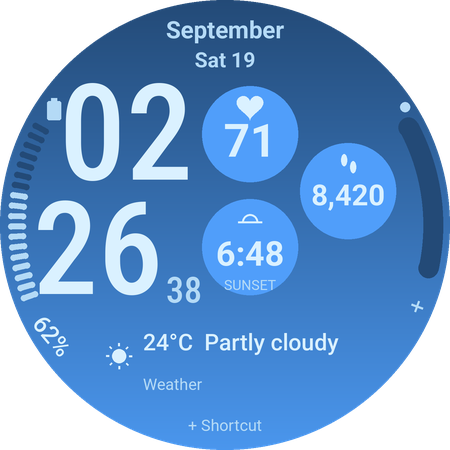
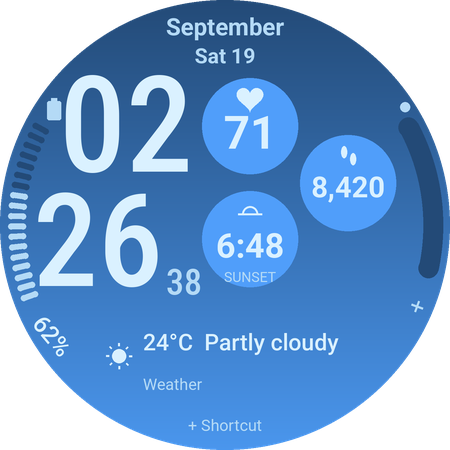
Tighten upper layout and retain compatible app shortcuts

Changed region(s): [[0.0622, 0.0311, 0.9022, 0.6844], [0.4356, 0.3111, 0.4667, 0.3422]]

diff --git a/tools/generate_watchface.py b/tools/generate_watchface.py
@@ -77,17 +77,17 @@ def clock(parent, ambient=False):
     color = '#FF8FA9BC' if ambient else C[2]
     # Retain the installed face's stacked time and two-line date. Slightly
     # smaller, inset digits clear the battery gauge and larger forecast below.
-    d = box(g, 'DigitalClock', 28, 67, 176, 246)
+    d = box(g, 'DigitalClock', 28, 59, 176, 246)
     for fmt, x, y, width in [('hh', 22, 0, 152), ('mm', 4, 116, 132)]:
         t = box(d, 'TimeText', x, y, width, 130, format=fmt, hourFormat='SYNC_TO_DEVICE', align='CENTER')
         el(t, 'Font', family='sans-serif-condensed', size=116 if ambient else (130 if fmt == 'mm' else 134),
            color=color, weight='THIN' if ambient else 'MEDIUM')
-    text(g, 82, 17, 286, 30, 24, '%s', '[MONTH_F]',
+    text(g, 82, 15, 286, 28, 24, '%s', '[MONTH_F]',
          color=color if ambient else C[3], weight='LIGHT' if ambient else 'BOLD')
-    text(g, 82, 47, 286, 26, 21, '%s %s', '[DAY_OF_WEEK_S]', '[DAY]',
+    text(g, 82, 43, 286, 26, 21, '%s %s', '[DAY_OF_WEEK_S]', '[DAY]',
          color=color if ambient else C[3], weight='LIGHT' if ambient else 'BOLD')
     if not ambient:
-        seconds = box(g, 'DigitalClock', 166, 270, 36, 40)
+        seconds = box(g, 'DigitalClock', 166, 262, 36, 40)
         t = box(seconds, 'TimeText', 0, 0, 36, 40, format='ss', align='CENTER')
         el(t, 'Font', family='sans-serif-condensed', size=36, color=C[3], weight='MEDIUM')
 
@@ -232,12 +232,12 @@ def edge_slot(parent, sid, name, left=False):
 
 def shortcut(parent):
     s = box(parent, 'ComplicationSlot', 155, 410, 140, 30, slotId=6, name='shortcut',
-            displayName='slot_shortcut', supportedTypes='MONOCHROMATIC_IMAGE EMPTY', isCustomizable='TRUE')
+            displayName='slot_shortcut', supportedTypes='SMALL_IMAGE EMPTY', isCustomizable='TRUE')
     box(s, 'BoundingRoundBox', 0, 0, 140, 30, cornerRadius=15)
     el(s, 'DefaultProviderPolicy', defaultSystemProvider='EMPTY', defaultSystemProviderType='EMPTY')
     ambient_hide(s)
-    p = el(s, 'Complication', type='MONOCHROMATIC_IMAGE')
-    image(p, 55, 0, 30, 30, '[COMPLICATION.MONOCHROMATIC_IMAGE]', C[2])
+    p = el(s, 'Complication', type='SMALL_IMAGE')
+    image(p, 55, 0, 30, 30, '[COMPLICATION.SMALL_IMAGE]')
     p = el(s, 'Complication', type='EMPTY')
     text(p, 0, 4, 140, 22, 16, '+ Shortcut', color=C[3])
 
@@ -251,9 +251,9 @@ def build():
     el(fill, 'LinearGradient', startX=0, startY=0, endX=0, endY=450, colors=C[0]+' '+C[1], positions='0 1')
     clock(scene); clock(scene, ambient=True)
     # Keep complication rendering last to reduce ambient memory use.
-    circle_slot(scene,1,'upper_circle',202,86,96,'HEART_RATE')
-    circle_slot(scene,2,'middle_circle',300,143,96,'STEP_COUNT')
-    circle_slot(scene,3,'lower_circle',202,199,96,'SUNRISE_SUNSET')
+    circle_slot(scene,1,'upper_circle',202,78,96,'HEART_RATE')
+    circle_slot(scene,2,'middle_circle',300,135,96,'STEP_COUNT')
+    circle_slot(scene,3,'lower_circle',202,191,96,'SUNRISE_SUNSET')
     edge_slot(scene,4,'left_edge',True); edge_slot(scene,5,'right_edge')
     shortcut(scene)
     rectangle_slot(scene)

diff --git a/tools/capture_editor.py b/tools/capture_editor.py
@@ -109,10 +109,10 @@ try:
     adb('shell', 'input', 'keyevent', 'KEYCODE_WAKEUP')
     adb('shell', 'settings', 'put', 'system', 'screen_off_timeout', '1800000')
     # Observe the installed providers' own tap actions without changing settings.
-    for sid, name, x, y in [(1, 'heart-rate', 250, 134), (2, 'steps', 348, 191),
-                            (3, 'sunrise-sunset', 250, 247), (4, 'battery', 16, 225),
-                            (1, 'upper-boundary', 287, 156), (2, 'middle-upper-boundary', 314, 164),
-                            (2, 'middle-lower-boundary', 314, 218), (3, 'lower-boundary', 287, 270)]:
+    for sid, name, x, y in [(1, 'heart-rate', 250, 126), (2, 'steps', 348, 183),
+                            (3, 'sunrise-sunset', 250, 239), (4, 'battery', 16, 225),
+                            (1, 'upper-boundary', 287, 148), (2, 'middle-upper-boundary', 314, 156),
+                            (2, 'middle-lower-boundary', 314, 210), (3, 'lower-boundary', 287, 262)]:
         ensure_face()
         before=launch_log()
         tap(x*w/450, y*h/450)
@@ -137,8 +137,8 @@ try:
         slot_tree=capture('editor-slots')
         results['editor_opened'] = True
         # Coordinates come from the seven WFF touch regions, scaled to the display.
-        for name, x, y in [('upper', 250, 134), ('middle', 348, 191),
-                           ('lower', 250, 247), ('left', 16, 225),
+        for name, x, y in [('upper', 250, 126), ('middle', 348, 183),
+                           ('lower', 250, 239), ('left', 16, 225),
                            ('right', 420, 225), ('bottom', 225, 425), ('weather', 225, 357)]:
             slot_tree=return_to_editor()
             label='Bottom rectangle' if name=='weather' else 'Bottom shortcut' if name=='bottom' else f'{name.title()} '+('edge' if name in ['left','right'] else 'circle')

diff --git a/tools/test_forecast_editor.py b/tools/test_forecast_editor.py
@@ -224,6 +224,12 @@ def main():
         if b"SamsungForecastService" not in providers:
             raise RuntimeError("Forecast source not discoverable through standard complication action")
         open_editor("replace")
+        tap(225 * WIDTH / 450, 425 * HEIGHT / 450)
+        capture("shortcut-chooser")
+        if "ProviderChooserActivity" not in top_activity():
+            raise RuntimeError("Shortcut did not open the native chooser")
+        adb("shell", "input", "keyevent", "KEYCODE_BACK")
+        wait_editor()
         open_rectangle("replace-chooser")
         # A separate app proves SMALL_IMAGE remains replaceable through the native picker.
         select_provider("Test chart", "chart", "Panel test")

diff --git a/tools/prepare_push_bundle.py b/tools/prepare_push_bundle.py
@@ -155,8 +155,8 @@ def main():
     parser = argparse.ArgumentParser(description=__doc__)
     parser.add_argument("--variant", choices=("debug", "release"), default="debug")
     parser.add_argument("--validator", help="Existing official validator-push-cli JAR")
-    parser.add_argument("--version-code", type=int, default=12)
-    parser.add_argument("--version-name", default="0.2.0-preview.5")
+    parser.add_argument("--version-code", type=int, default=13)
+    parser.add_argument("--version-name", default="0.2.0-preview.6")
     args = parser.parse_args()
     if args.version_code < 1:
         parser.error("--version-code must be positive")

diff --git a/tests/test_watchface.py b/tests/test_watchface.py
@@ -101,7 +101,7 @@ class WatchFaceTests(unittest.TestCase):
 
     def test_shortcut_offers_only_icons(self):
         slot=self.face.find(".//ComplicationSlot[@slotId='6']")
-        self.assertEqual(set(slot.get('supportedTypes').split()), {'MONOCHROMATIC_IMAGE','EMPTY'})
+        self.assertEqual(set(slot.get('supportedTypes').split()), {'SMALL_IMAGE','EMPTY'})
 
     def test_weather_is_one_native_editable_slot(self):
         slot=self.face.find(".//ComplicationSlot[@slotId='7']")

diff --git a/docs/SAMSUNG_FORECAST_TESTING.md b/docs/SAMSUNG_FORECAST_TESTING.md
@@ -6,7 +6,7 @@ This preview reads Samsung Weather's saved forecast through its existing user-gr
 
 Download `weatherbridge-debug.apk` from the **samsung-forecast-preview** artifact in the **Samsung forecast preview** GitHub workflow. The APK contains the weather setup app, a normal selectable forecast complication, and a separately signed/validated WFF face. Do not install the `androidTest` APK or the AAB on your watch.
 
-The current source is **0.2.0-preview.5 / version 12**. It keeps the familiar layout, gives the three 96-unit circles equal spacing, centers the two date lines together with a tighter line gap, and makes the active date bold. The 262 × 94 forecast panel is unchanged. Its standard picker now accepts only small-image panels or Empty, excluding generic long-text choices. The left edge has 18 ticks and the right arc spans 40 degrees. The bottom shortcut accepts monochrome icons or Empty; its former text/image-only assignments may need replacing. Circle and edge formats stay unchanged. Validation of this revision is recorded in [the validation log](VALIDATION.md); older runs are not evidence for this update.
+The current source is **0.2.0-preview.6 / version 13**. It keeps the familiar layout, gives the three 96-unit circles equal spacing, centers the two date lines together with a tighter line gap, and makes the active date bold. The time and circles sit eight units higher, retaining equal gaps. The 262 × 94 forecast panel is unchanged. Its standard picker now accepts only small-image panels or Empty, excluding generic long-text choices. The left edge has 18 ticks and the right arc spans 40 degrees. The bottom shortcut accepts small-image icons or Empty; its former text/monochrome-only assignments may need replacing. Circle and edge formats stay unchanged. Validation of this revision is recorded in [the validation log](VALIDATION.md); older runs are not evidence for this update.
 
 For historical comparison, the reviewed version 10 build is [run 35677889561](https://github.com/DylanMc25/ultrawatchfaceedits/actions/runs/35677889561), source `e9fe68d`. Its build/validation and both stock Wear OS 6 editor tests pass. Those results do not validate the new layout or narrowed provider menu.
 
@@ -24,17 +24,17 @@ On the watch:
 1. In **Ultra Info Board Weather**, tap **Allow weather access** and respond to Samsung's system permission prompt.
 2. Tap **Read saved forecast**. The app shows the selected city, current reading, four hourly entries and saved time. Everything stays on the watch; no coordinates or raw provider records are logged or uploaded.
 3. Tap **Open Samsung Weather**. Compare the same location, units, current temperature, forecast hours and temperatures. Refresh Samsung Weather, then return and read again.
-4. Select **Ultra Forecast** in the watch-face picker. This distinct name separates it from the older **Ultra Info Board** face. If it is missing, return to the app and tap **Install or update watch face**. The bottom rectangle defaults to **Weather** from **Ultra Info Board Weather** in version 12; older previews call this source **Samsung hourly forecast**.
+4. Select **Ultra Forecast** in the watch-face picker. This distinct name separates it from the older **Ultra Info Board** face. If it is missing, return to the app and tap **Install or update watch face**. The bottom rectangle defaults to **Weather** from **Ultra Info Board Weather** in version 13; older previews call this source **Samsung hourly forecast**.
 5. Tap the left, middle and right of the rectangle: each should open Samsung Weather after access is granted. When access is missing, the forecast provider opens its permission setup instead.
 6. In Customize → Complications → Bottom rectangle, replace the rectangle with another installed small-image provider, such as a compatible chart source. Its content and tap should take over. Restore **Weather** under **Ultra Info Board Weather**. Samsung's own **Weather** entry is a different provider and supplies current conditions, not this hourly image. Wear OS determines which installed apps are eligible; the face does not whitelist providers.
 
-The seven slot IDs and package identities are unchanged. Because version 12 also removes long-text types from the rectangle, an existing assignment that supports only a removed type may need replacing. Upgrade migration and retention of these assignments have not been tested; do not assume a consistently signed update preserves an incompatible source.
+The seven slot IDs and package identities are unchanged. Because version 13 also removes long-text types from the rectangle, an existing assignment that supports only a removed type may need replacing. Upgrade migration and retention of these assignments have not been tested; do not assume a consistently signed update preserves an incompatible source.
 
 ### Keeping weather permission across updates
 
 The user reported that granting **Allow weather access** restored the forecast. Reinstalling the host resets its permission; use `install -r` for normal updates. Do not clear the app's data or uninstall as a routine update step. Android/Samsung controls permission grants and can revoke them; the app cannot silently bypass the prompt.
 
-The actual version 10 and 11 CI APKs had different host certificates, explaining the reported signature conflict. The old cache retained the face key but did not preserve the host signing identity used by those builds. Version 12 explicitly selects the cached host keystore, migrates to a new cache, verifies both APK certificates, and records their public fingerprints. Once pinned, CI refuses a changed or missing key rather than silently shipping another incompatible update. Cache storage is not a durable production key backup; release signing still needs secure persistent storage.
+The actual version 10 and 11 CI APKs had different host certificates, explaining the reported signature conflict. The old cache retained the face key but did not preserve the host signing identity used by those builds. Version 13 explicitly selects the cached host keystore, migrates to a new cache, verifies both APK certificates, and records their public fingerprints. Once pinned, CI refuses a changed or missing key rather than silently shipping another incompatible update. Cache storage is not a durable production key backup; release signing still needs secure persistent storage.
 
 The earlier ephemeral host key cannot be recovered from its APK. Moving from version 11 to the stable preview key will require a one-time reinstall and permission grant; keep the working version if you do not want to reset it now. Never uninstall Samsung Weather. Subsequent same-key preview updates should retain access; physical update retention still needs verification. Local builds use a separate local key and should not be mixed with CI downloads.
 
@@ -55,7 +55,7 @@ Do not describe fixture images or stock-emulator results as Samsung integration.
 
 ## Customization investigation
 
-Version 12 declares slot 7 customizable with exactly `SMALL_IMAGE EMPTY`. This narrows the menu by data type, not by app identity, and therefore does not reproduce a fixed Samsung-only list. The forecast service declares the standard complication action, binding permission and `SMALL_IMAGE` type. It is not hidden or restricted to our own face. The [public registration and selection rules](https://developer.android.com/training/wearables/complications/exposing-data) permit this combination; a source being assigned by default does not establish discoverability in every OEM editor.
+Version 13 declares slot 7 customizable with exactly `SMALL_IMAGE EMPTY`. This narrows the menu by data type, not by app identity, and therefore does not reproduce a fixed Samsung-only list. The forecast service declares the standard complication action, binding permission and `SMALL_IMAGE` type. It is not hidden or restricted to our own face. The [public registration and selection rules](https://developer.android.com/training/wearables/complications/exposing-data) permit this combination; a source being assigned by default does not establish discoverability in every OEM editor.
 
 A targeted recheck of the supplied Samsung manifests found no additional public rectangle-selection flag to copy: ComplicationHelper does not declare ordinary complication-source services, while Ultra Info Board declares its own wallpaper/editor and only queries the ordinary complication action. Its source-configuration activities concern World Clock/Altimeter, not the hourly weather panel. These findings explain why Samsung's private editor configuration is not a registration recipe for our normal provider; they do not diagnose the user's exact picker failure.
 
@@ -63,7 +63,7 @@ Version 10 adds a service-specific white icon, distinct face name and exact pick
 
 The first naming attempt in version 9, **Ultra Info Board Forecast**, was visibly truncated to **Ultra Info Boa…** in the round picker, hiding its distinguishing suffix. Version 10 shortens the label to **Ultra Forecast**. This changes the display name, not the package or existing assignments.
 
-`tools/test_forecast_editor.py` exercises the actual native editor on disposable API 36 emulators. It verifies the active pushed package, replaces the rectangle with an eligible source, checks persistence and taps, verifies opening setup does not overwrite the assignment, then restores the forecast through the picker. Version 12 uses an isolated test-only image chart app to verify replacement and taps, and restores **Weather**; version 11 used Battery; the historical version 9/10 runs below used Alarm and **Samsung hourly forecast**. With Samsung absent, the restored provider should open setup. Screenshots, UI trees, provider registration and activity evidence are retained, including on failure. This does not establish behavior in Samsung's watch or phone editors.
+`tools/test_forecast_editor.py` exercises the actual native editor on disposable API 36 emulators. It verifies the active pushed package, replaces the rectangle with an eligible source, checks persistence and taps, verifies opening setup does not overwrite the assignment, then restores the forecast through the picker. Version 13 uses an isolated test-only image chart app to verify replacement and taps, and restores **Weather**; version 11 used Battery; the historical version 9/10 runs below used Alarm and **Samsung hourly forecast**. With Samsung absent, the restored provider should open setup. Screenshots, UI trees, provider registration and activity evidence are retained, including on failure. This does not establish behavior in Samsung's watch or phone editors.
 
 [Run 35677046105](https://github.com/DylanMc25/ultrawatchfaceedits/actions/runs/35677046105), source `b864c30` / version 9, passes that entire sequence on both 384 px and 454 px emulators. Reviewed captures show **Samsung hourly forecast** under **Ultra Info Board Weather** in the ordinary provider list, Alarm occupying the rectangle after replacement, and the forecast restored. All three taps open the chosen provider's destination. Samsung's physical picker issue remains unresolved despite this stock-platform success.
 

diff --git a/README.md b/README.md
@@ -4,7 +4,7 @@ A Galaxy Watch face with a blue gradient, large stacked time and seven editable 
 
 **Start with the [Samsung forecast installation and comparison guide](docs/SAMSUNG_FORECAST_TESTING.md).** Download `weatherbridge-debug.apk` from the `samsung-forecast-preview` artifact in [this workflow](https://github.com/DylanMc25/ultrawatchfaceedits/actions/workflows/samsung-weather.yml), checking the source version before installation. The user confirmed the forecast appears in the face and tapping opens Samsung Weather; the narrowed picker still needs a physical Samsung check. The bundled face is **Ultra Forecast**. This is a development preview, not a store release.
 
-The current layout is standalone `:app` version **0.1.8 / 9** and Samsung forecast preview **0.2.0-preview.5 / 12**. The original standalone face remains available on Wear OS 5+ as `com.example.ultrainfoboard`; the bundled preview requires Wear OS 6. Version 12 keeps the familiar staggered layout, evens the circle gaps, makes the date bold, and limits the forecast picker to image panels. Prior version 11 passed native checks on small/large API 36 and standalone API 34/35; this revision is awaiting CI evidence; physical readability and upgrade retention still need review. Final branding, package identity and release signing remain release prerequisites.
+The current layout is standalone `:app` version **0.1.9 / 10** and Samsung forecast preview **0.2.0-preview.6 / 13**. The original standalone face remains available on Wear OS 5+ as `com.example.ultrainfoboard`; the bundled preview requires Wear OS 6. Version 13 keeps the familiar staggered layout, evens the circle gaps, makes the date bold, and limits the forecast picker to image panels. Prior version 11 passed native checks on small/large API 36 and standalone API 34/35; this revision is awaiting CI evidence; physical readability and upgrade retention still need review. Final branding, package identity and release signing remain release prerequisites.
 
 ![Illustrative provider layout](docs/previews/active-illustrative.png)
 
@@ -12,9 +12,9 @@ The current layout is standalone `:app` version **0.1.8 / 9** and Samsung foreca
 
 ## Layout
 
-- Month and day/date form a centered two-line header above stacked hours/minutes, with a tighter gap between the date lines. Active month/date text is bold, 24/21 units and hours/minutes are 134/130 units; seconds retain a separate column.
+- Month and day/date form a centered two-line header above stacked hours/minutes, with a tighter gap between the date lines. The time and circles sit eight units higher to fill the upper section. Active month/date text is bold, 24/21 units and hours/minutes are 134/130 units; seconds retain a separate column.
 - Three staggered circles on the right: heart rate, steps and sunrise/sunset. Diameters are 96/96/96 units, with main readings up to 46 units and smaller sizes for longer values.
-- Longer edges: an 18-segment battery gauge on the left and a 40-degree arc on the right, with inset icons and angled labels. The bottom shortcut accepts only `MONOCHROMATIC_IMAGE` or Empty to reduce picker choices. Right edge and shortcut start unassigned.
+- Longer edges: an 18-segment battery gauge on the left and a 40-degree arc on the right, with inset icons and angled labels. The bottom shortcut accepts only `SMALL_IMAGE` or Empty to reduce picker choices. Right edge and shortcut start unassigned.
 - One transparent **Bottom rectangle**, 262 × 94 units, for compatible installed apps' image panels (`SMALL_IMAGE`) or Empty in the Wear OS 6 forecast face. The legacy standalone face also accepts `LONG_TEXT`. Wear OS determines which installed sources support those types; there is no app whitelist.
 - Black always-on display with thin time and date; all complications are hidden.
 
@@ -28,7 +28,7 @@ All seven slot IDs stay stable in this update. The narrower rectangle type list 
 
 The historical 0.1.5 test reported `Weather —` while its tap correctly opened Samsung Weather with location and forecast data. The standalone face switched to provider data in 0.1.6; its integration remains separate from the physically confirmed Wear OS 6 preview. See [research and compatibility](docs/SAMSUNG_WEATHER.md).
 
-**Samsung forecast preview:** the Wear OS 6 app bundles the face and an hourly forecast complication that reads Samsung Weather's cache with the user's permission. It follows Samsung's saved location, units and hourly selection, and opens Samsung Weather when tapped. [Install and test the preview](docs/SAMSUNG_FORECAST_TESTING.md). Physical forecast display/tap succeeded on an earlier build; the version 12 Samsung picker, detailed data comparison and physical readability remain unverified. The original `:app` build remains available alongside `:weatherbridge` / `:pushface`.
+**Samsung forecast preview:** the Wear OS 6 app bundles the face and an hourly forecast complication that reads Samsung Weather's cache with the user's permission. It follows Samsung's saved location, units and hourly selection, and opens Samsung Weather when tapped. [Install and test the preview](docs/SAMSUNG_FORECAST_TESTING.md). Physical forecast display/tap succeeded on an earlier build; the version 13 Samsung picker, detailed data comparison and physical readability remain unverified. The original `:app` build remains available alongside `:weatherbridge` / `:pushface`.
 
 ## Build and install
 

diff --git a/docs/PULL_REQUEST.md b/docs/PULL_REQUEST.md
@@ -2,7 +2,7 @@
 
 Samsung's ordinary Weather complication does not supply its native hourly panel. This change adds a standard image complication that reads Samsung Weather's saved current/hourly data after a normal user permission grant. It follows the observed favorite-location key, units, rounding, condition mapping and four-hour selection. The whole rectangle opens Samsung Weather. The rectangle supports selecting another provider to take over its content and action; stock Wear OS selection is verified, while Samsung editor behavior still needs a physical check of this revision.
 
-A Wear OS 6 host bundles a separately signed resource-only face using Watch Face Push. Version 12 keeps the two-line date and staggered circles, makes the active date bold, and makes all three circles 96 units with equal gaps. The forecast remains 262 × 94. Its provider is named **Weather** under **Ultra Info Board Weather**. The rectangle accepts image panels (`SMALL_IMAGE`) or Empty; the shortcut accepts only monochrome icons or Empty, and all seven IDs stay stable. Both edge gauges extend farther around the rim; the minutes are slightly smaller and inset to clear the left ticks. Wear OS determines eligible apps. Older long-text rectangle assignments need replacing.
+A Wear OS 6 host bundles a separately signed resource-only face using Watch Face Push. Version 13 keeps the two-line date and staggered circles, makes the active date bold, and makes all three circles 96 units with equal gaps. The forecast remains 262 × 94. Its provider is named **Weather** under **Ultra Info Board Weather**. The rectangle accepts image panels (`SMALL_IMAGE`) or Empty; the shortcut accepts only small-image icons or Empty, and all seven IDs stay stable. Both edge gauges extend farther around the rim; the minutes are slightly smaller and inset to clear the left ticks. Wear OS determines eligible apps. Older long-text rectangle assignments need replacing.
 
 The v10/v11 downloaded host APKs had different signing certificates, explaining failed updates and permission loss after reinstalling. The preview now explicitly signs with its cached host key, verifies host/face APK certificates, and pins public identities so a lost/changed key blocks CI. Existing v11 installations require one migration reinstall; subsequent same-key updates should preserve permission. Persistent production signing and a secure key backup remain release requirements.
 
@@ -10,12 +10,12 @@ Missing data stays unavailable, expired data is marked, and bounded timelines ha
 
 ## Validation
 
-- Version 12 local APK, test APK, unsigned host AAB and lint checks pass; 29 JVM and 19 Python tests pass.
-- Official Push validation passes all ten checks on the signed embedded face. Standalone v9 APK/AAB, WFF schema and memory checks pass.
+- Version 13 local APK, test APK, unsigned host AAB and lint checks pass; 29 JVM and 19 Python tests pass.
+- Official Push validation passes all ten checks on the signed embedded face. Standalone v10 APK/AAB, WFF schema and memory checks pass.
 - Native emulator checks for this revision are pending. The new picker test uses a separate test-only image chart app, checks selection, persistence and all three tap positions, opens setup without overwriting the choice, and restores Weather. The fixture is not included in user artifacts.
 - [Versioned evidence](VALIDATION.md) distinguishes stock-emulator unavailable weather and synthetic images from physical Samsung reports.
 
 
-The user installed an earlier preview on the API 36 Galaxy Watch and confirmed the forecast appears correctly in the rectangle and its tap opens Samsung Weather. The version 12 Samsung picker and layout, format/refresh edge cases, upgrade persistence and battery/ambient checks remain pending on physical hardware. Stock-emulator fixtures do not establish Samsung integration. The observed OEM interface is not a published stable Samsung API; commercial support and production signing remain release questions. The CI AAB contains a debug-signed embedded face and is a test artifact only.
+The user installed an earlier preview on the API 36 Galaxy Watch and confirmed the forecast appears correctly in the rectangle and its tap opens Samsung Weather. The version 13 Samsung picker and layout, format/refresh edge cases, upgrade persistence and battery/ambient checks remain pending on physical hardware. Stock-emulator fixtures do not establish Samsung integration. The observed OEM interface is not a published stable Samsung API; commercial support and production signing remain release questions. The CI AAB contains a debug-signed embedded face and is a test artifact only.
 
 The GitHub connector currently returns `403 Resource not accessible by integration` when creating a draft PR. This file preserves the review description; no PR has been created by the agent.

diff --git a/docs/VALIDATION.md b/docs/VALIDATION.md
@@ -1,8 +1,8 @@
 # Validation
 
-## Version 12 alignment, picker and signing update
+## Version 13 alignment, picker and signing update
 
-Local validation passes: 19 Python checks, 29 JVM tests, app/test APK and unsigned host AAB builds, lint, ten official Push checks, and standalone v9 WFF schema/APK/AAB/memory checks. All three circle diameters are 96 with perimeter gaps within one design unit; the date is bold only in active mode. The left gauge now has 18 ticks; the right arc spans 40 degrees. Shortcut slot 6 supports MONOCHROMATIC_IMAGE/EMPTY only. The forecast rectangle stays 262 × 94 and the pushed face now accepts SMALL_IMAGE/EMPTY only. Stock emulator checks are pending for this revision.
+Local validation passes: 19 Python checks, 29 JVM tests, app/test APK and unsigned host AAB builds, lint, ten official Push checks, and standalone v10 WFF schema/APK/AAB/memory checks. All three circle diameters are 96 with perimeter gaps within one design unit; the date is bold only in active mode. The left gauge now has 18 ticks; the right arc spans 40 degrees. Shortcut slot 6 supports SMALL_IMAGE/EMPTY only. The forecast rectangle stays 262 × 94 and the pushed face now accepts SMALL_IMAGE/EMPTY only. Stock emulator checks are pending for this revision.
 
 The user reports weather works after tapping Allow. This supports a permission-reset explanation for the latest failure, not a weather-data regression. v10/v11 downloaded host certificates differ while their embedded face certificate is unchanged. The explicit cached host key and certificate checks address that CI defect; permission retention still requires a same-key physical update check.
 
